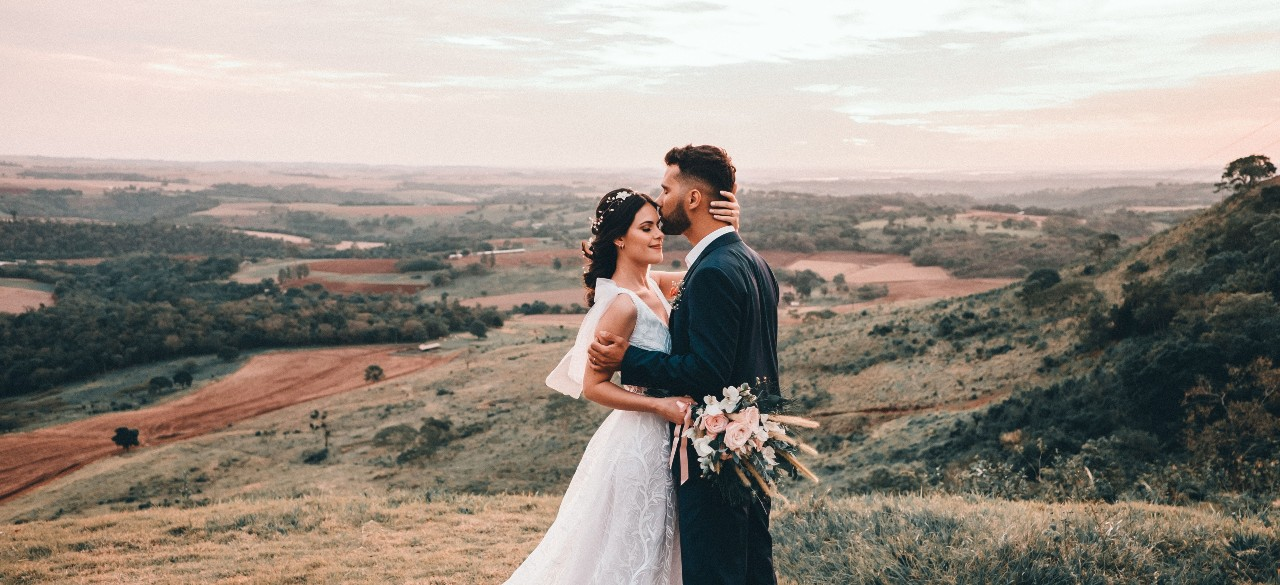
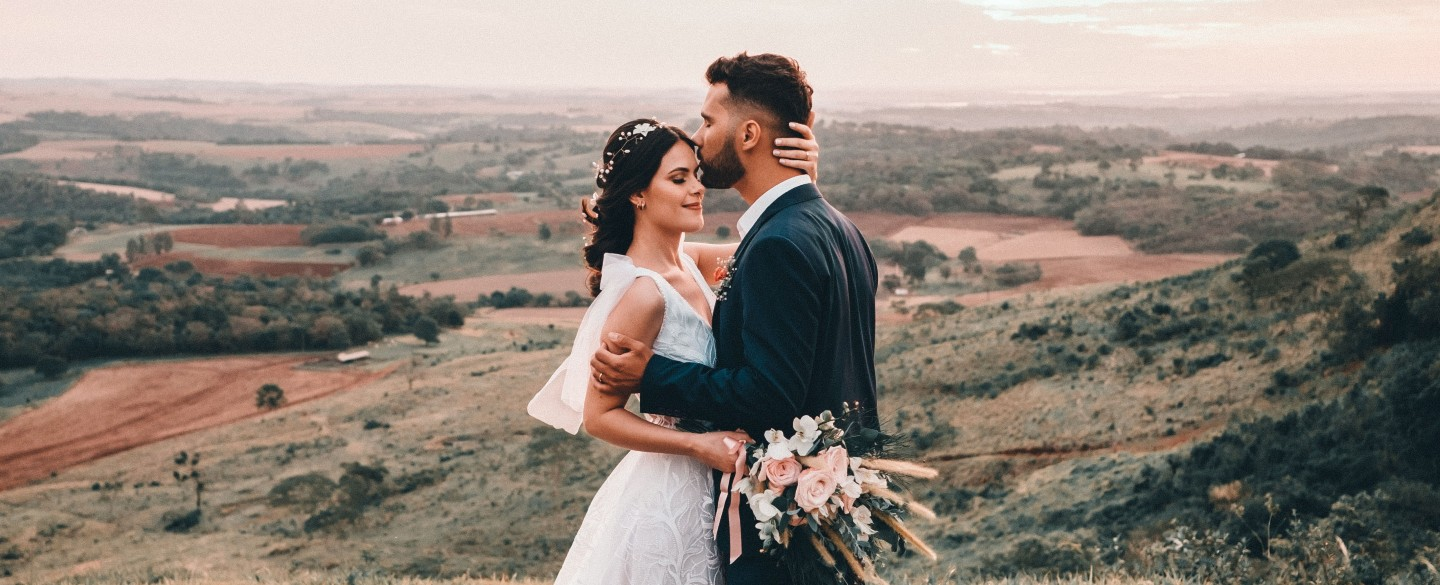
project complete

diff --git a/index.html b/index.html
@@ -30,8 +30,8 @@
 
         <nav class="navbar navbar-expand-lg navbar-light bg-white">
             <div class="container py-1">
-                <a class="navbar-brand fs-4 fw-bold text-darkGray" href="#">Spectra Convention Centre</a>
-                <button class="navbar-toggler" type="button" data-bs-toggle="collapse"
+                <a class="navbar-brand fs-4 fw-bold text-darkGray logo" href="#">Spectra Convention Centre</a><br>
+                <button class="navbar-toggler d-none" type="button" data-bs-toggle="collapse"
                     data-bs-target="#navbarSupportedContent" aria-controls="navbarSupportedContent"
                     aria-expanded="false" aria-label="Toggle navigation">
                     <span class="navbar-toggler-icon"></span>
@@ -77,14 +77,30 @@
                         <div class="position-absolute top-0 start-0 w-100 h-100"
                             style="background: linear-gradient(180deg, rgba(0, 0, 0, 0.55) 21.92%, rgba(0, 0, 0, 0.418) 160.04%, rgba(0, 0, 0, 0.121) 160.06%);">
                         </div>
-                        <img src="images/carousel/slider-1.jpg" class="d-block w-100" alt="...">
-                        <div class="carousel-caption d-none d-md-block">
+                        <img src="images/carousel/slider-1.jpg" class="d-block w-md-100 height-increse" alt="...">
+                        <div class="carousel-caption d-md-block">
                             <h1 class="display-5 fw-600">The perfect venue for your <br>
                                 next event</h1>
                             <p>As you already know, we at Spectra specialise in helping you the find perfect
                                 accommodation <br> for the professional events
                                 and trade shows you attend around Europe.</p>
-                            <a class="btn btn-light text-primary fw-bold px-5 mb-5" href="http://scc.com.bd/"
+                            <a class="btn btn-light text-primary fw-bold px-5 mb-3" href="http://scc.com.bd/"
+                                role="button" target="_blank">Book
+                                Now</a>
+                        </div>
+                    </div>
+                    <div class="carousel-item position-relative">
+                        <div class="position-absolute top-0 start-0 w-100  h-100"
+                            style="background: linear-gradient(180deg, rgba(0, 0, 0, 0.55) 21.92%, rgba(0, 0, 0, 0.418) 160.04%, rgba(0, 0, 0, 0.121) 160.06%);">
+                        </div>
+                        <img src="images/carousel/slider-2.jpg" class="d-block w-md-100 height-increse" alt="...">
+                        <div class="carousel-caption d-md-block">
+                            <h1 class="display-5 fw-600">The perfect venue for your <br>
+                                next event</h1>
+                            <p>As you already know, we at Spectra specialise in helping you the find perfect
+                                accommodation <br> for the professional events
+                                and trade shows you attend around Europe.</p>
+                            <a class="btn btn-light text-primary fw-bold px-5 mb-3" href="http://scc.com.bd/"
                                 role="button" target="_blank">Book
                                 Now</a>
                         </div>
@@ -93,30 +109,14 @@
                         <div class="position-absolute top-0 start-0 w-100 h-100"
                             style="background: linear-gradient(180deg, rgba(0, 0, 0, 0.55) 21.92%, rgba(0, 0, 0, 0.418) 160.04%, rgba(0, 0, 0, 0.121) 160.06%);">
                         </div>
-                        <img src="images/carousel/slider-2.jpg" class="d-block w-100" alt="...">
-                        <div class="carousel-caption d-none d-md-block">
+                        <img src="images/carousel/slider-3.jpg" class="d-block w-md-100 height-increse" alt="...">
+                        <div class="carousel-caption d-md-block">
                             <h1 class="display-5 fw-600">The perfect venue for your <br>
                                 next event</h1>
                             <p>As you already know, we at Spectra specialise in helping you the find perfect
                                 accommodation <br> for the professional events
                                 and trade shows you attend around Europe.</p>
-                            <a class="btn btn-light text-primary fw-bold px-5 mb-5" href="http://scc.com.bd/"
-                                role="button" target="_blank">Book
-                                Now</a>
-                        </div>
-                    </div>
-                    <div class="carousel-item position-relative">
-                        <div class="position-absolute top-0 start-0 w-100 h-100"
-                            style="background: linear-gradient(180deg, rgba(0, 0, 0, 0.55) 21.92%, rgba(0, 0, 0, 0.418) 160.04%, rgba(0, 0, 0, 0.121) 160.06%);">
-                        </div>
-                        <img src="images/carousel/slider-3.jpg" class="d-block w-100" alt="...">
-                        <div class="carousel-caption d-none d-md-block">
-                            <h1 class="display-5 fw-600">The perfect venue for your <br>
-                                next event</h1>
-                            <p>As you already know, we at Spectra specialise in helping you the find perfect
-                                accommodation <br> for the professional events
-                                and trade shows you attend around Europe.</p>
-                            <a class="btn btn-light text-primary fw-bold px-5 mb-5" href="http://scc.com.bd/"
+                            <a class="btn btn-light text-primary fw-bold px-5 mb-3" href="http://scc.com.bd/"
                                 role="button" target="_blank">Book
                                 Now</a>
                         </div>

diff --git a/style.css b/style.css
@@ -177,9 +177,25 @@ footer-link h6{
     .food-img{
         width:100%;
     }
-    
+
     footer span{
         display: inline-block;
         width:80%;
     }
+    .logo{
+        margin-left:20px;
+    }
+    
+    .carousel-caption h1{
+        font-size:28px;
+        font-weight: 400;
+    }
+
+    .carousel-caption p{
+        font-weight: lighter;
+        font-size:14px;
+    }
+
 }
+
+/* media-query-end */
